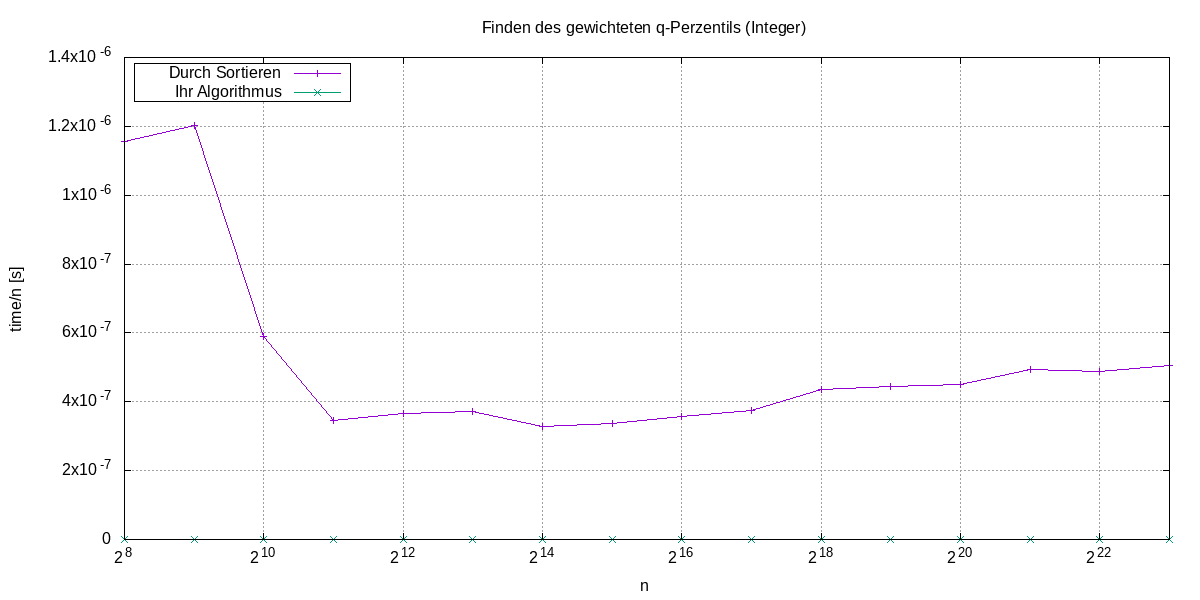
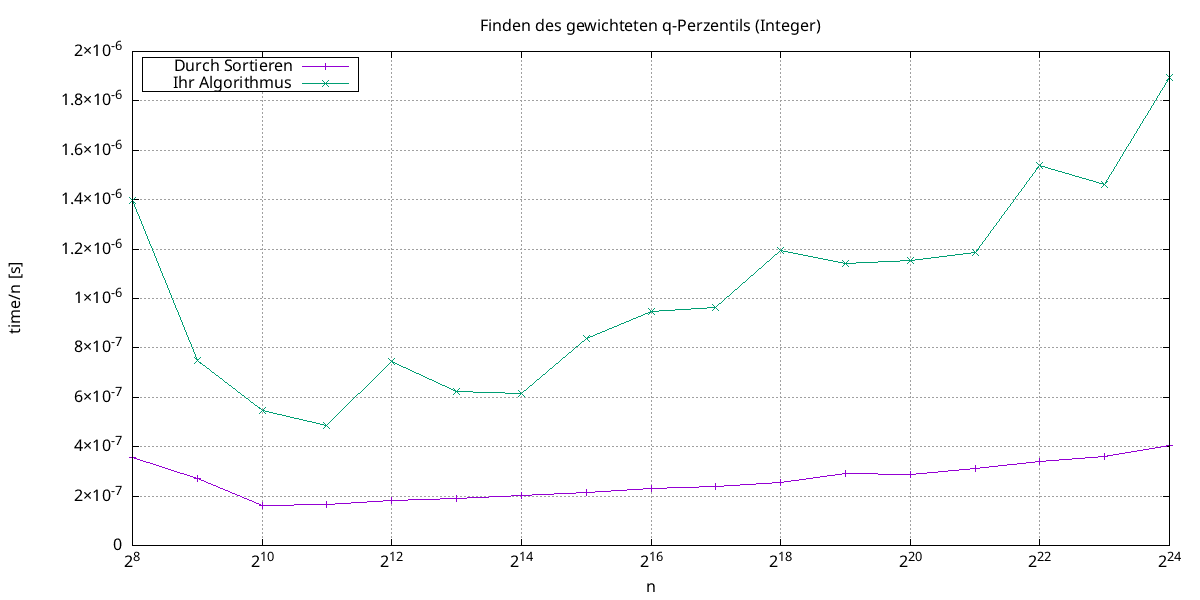
Added first solution

diff --git a/src/WeightedSelectionAlgorithm.cpp b/src/WeightedSelectionAlgorithm.cpp
@@ -1,34 +1,73 @@
+//#define DEBUG 1
+
 #include "WeightedSelectionAlgorithm.h"
 #include <vector>
 #include <cstdio>
 
-int WeightedSelectionAlgorithm::weightedSelectionAlgorithm(std::vector<Element> &elements, double q) {
-
-    //input values are
-    printf("\n");
-    printf("q: %f\n", q);
-    printf("elements: ");
-    for (auto &element: elements) {
-        printf("Weight: %d, Value: %d; ", element.getWeight(), element.getValue());
-    }
-    printf("\n");
-
+int WeightedSelectionAlgorithm::weightedSelectionAlgorithm(
+        std::vector<Element> &elements, double q) {
     double sum = 0;
     for (auto &element: elements) {
         sum += element.getWeight();
     }
     sum *= q;
 
-    double left_sum = 0;
+#ifdef DEBUG
+    printf("q: %f\n", q);
+    printf("Elements: \n");
+    //weight and value of the elements
+    //for (auto element: elements) {
+    //    printf("value: %d, weight: %d\n", element.getValue(), element.getWeight());
+    //}
+    printf("weighted_sum_over_all: %f\n", sum);
+    printf("\n");
+#endif
 
-    printf("sum: %f\n", sum);
+    int result = sum_of_weights(elements, 0, elements.size() - 1, sum);
+#ifdef DEBUG
+    printf("result: %d\n", result);
+    printf("\n------------------------------------------\n\n");
+#endif
+    return elements[result].getValue();
+}
 
-    for (auto &element: elements) {
-        left_sum += element.getWeight();
-        if (left_sum >= sum) {
-            printf("returning %d\n", element.getValue());
-            return element.getValue();
+int WeightedSelectionAlgorithm::sum_of_weights(std::vector<Element> &elements, int left, int right,
+                                               double weighted_sum_over_all) {
+    //some debug printing
+#ifdef DEBUG
+    //printf("left: %d, right: %d\n", left, right);
+#endif
+
+    int pivot = left;
+    Element pivot_element = elements[pivot];
+    std::vector<Element> left_elements;
+    std::vector<Element> right_elements;
+
+    for (auto element: elements) {
+        if (element.getValue() < elements[pivot].getValue()) {
+            left_elements.push_back(element);
+        } else if (element.getValue() > elements[pivot].getValue()) {
+            right_elements.push_back(element);
         }
     }
-    return elements.end()->getValue();
+    elements = left_elements;
+    elements.push_back(pivot_element);
+    elements.insert(elements.end(), right_elements.begin(), right_elements.end());
+
+    //calc sum
+    long sum_without_piv = 0;
+    for (auto element: left_elements) {
+        sum_without_piv += element.getWeight();
+    }
+    long sum_with_piv = sum_without_piv + elements[left_elements.size()].getWeight();
+
+    if (sum_with_piv >= weighted_sum_over_all && sum_without_piv < weighted_sum_over_all) {
+        return left_elements.size();
+    } else if (left == right) {
+        return left;
+    } else if (sum_with_piv < weighted_sum_over_all) {
+        return sum_of_weights(elements, left_elements.size() + 1, right, weighted_sum_over_all);
+    } else {
+        return sum_of_weights(elements, left, left_elements.size() - 1, weighted_sum_over_all);
+    }
 }

diff --git a/src/WeightedSelectionAlgorithm.h b/src/WeightedSelectionAlgorithm.h
@@ -6,9 +6,13 @@
  */
 class WeightedSelectionAlgorithm {
 
+    // TODO: implement algorithm
 public:
-  WeightedSelectionAlgorithm()= default;
-  virtual ~WeightedSelectionAlgorithm()= default;
+    WeightedSelectionAlgorithm() {};
 
-  int weightedSelectionAlgorithm(std::vector<Element> &elements, double q); 
+    virtual ~WeightedSelectionAlgorithm() {};
+
+    int weightedSelectionAlgorithm(std::vector<Element> &elements, double q);
+
+    int sum_of_weights(std::vector<Element> &elements, int left, int right, double weighted_sum_over_all);
 };

diff --git a/Readme.md b/Readme.md
@@ -1,0 +1,23 @@
+## Aufgabe 1
+
+Wir können zunächst die Summe über alle Gewichte Bilden und diese zwischenspeichern. Anschließend können wir ein
+Pivot element unserer Wahl wählen und ähnlich wie beim Quick-Sort alle kleineren in eine List sortieren, deren Elemente
+wir dann aufsummieren. Ist die Summe größer als die zwischengespeicherte Summe, so wiederholen wir den Vorgang mit
+rekursiv in der linken hälfte. Sonst in der rechten
+
+## Aufgabe 2
+
+siehe Code
+
+## Aufgabe 3
+
+Wir haben die steps auf 25 beschränkt, da uns sonst der Arbeitsspeicher ausgeht.
+![Image](./images/plot.png)
+
+## Aufgabe 4
+
+Unser Algorithmus ist eigentlich überall schlechter als der Vorgegebene.
+
+## Aufgabe 5
+
+indem man beim anlegen der neuen listen die elemente in der List selbst sortiert. 
